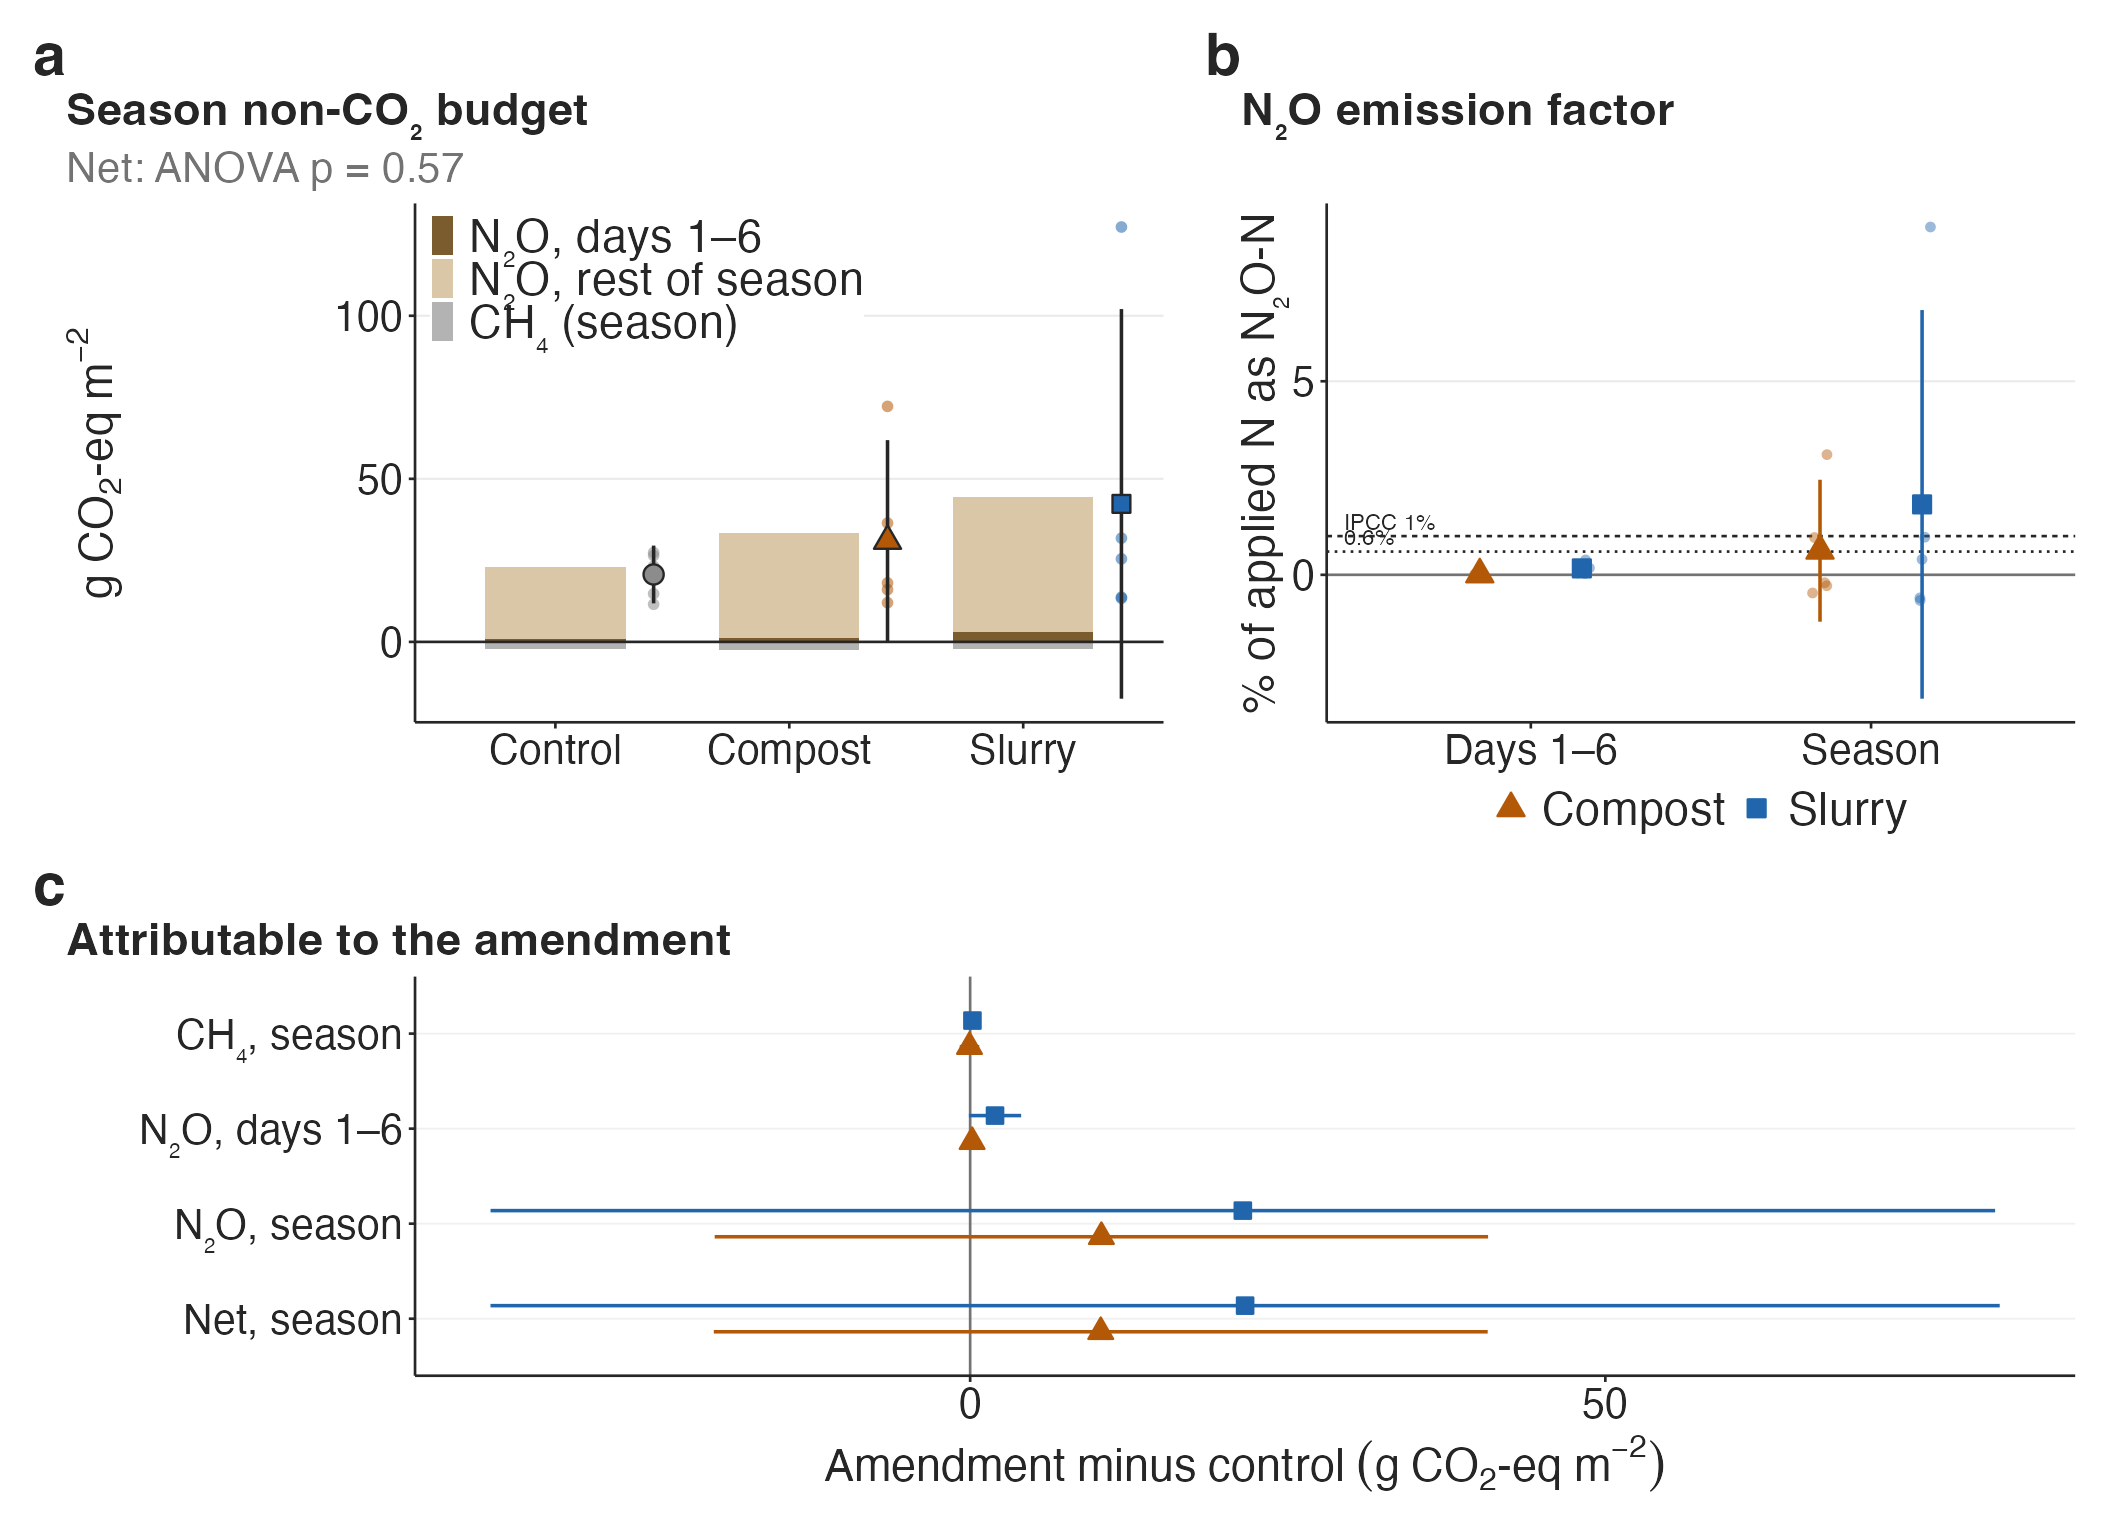
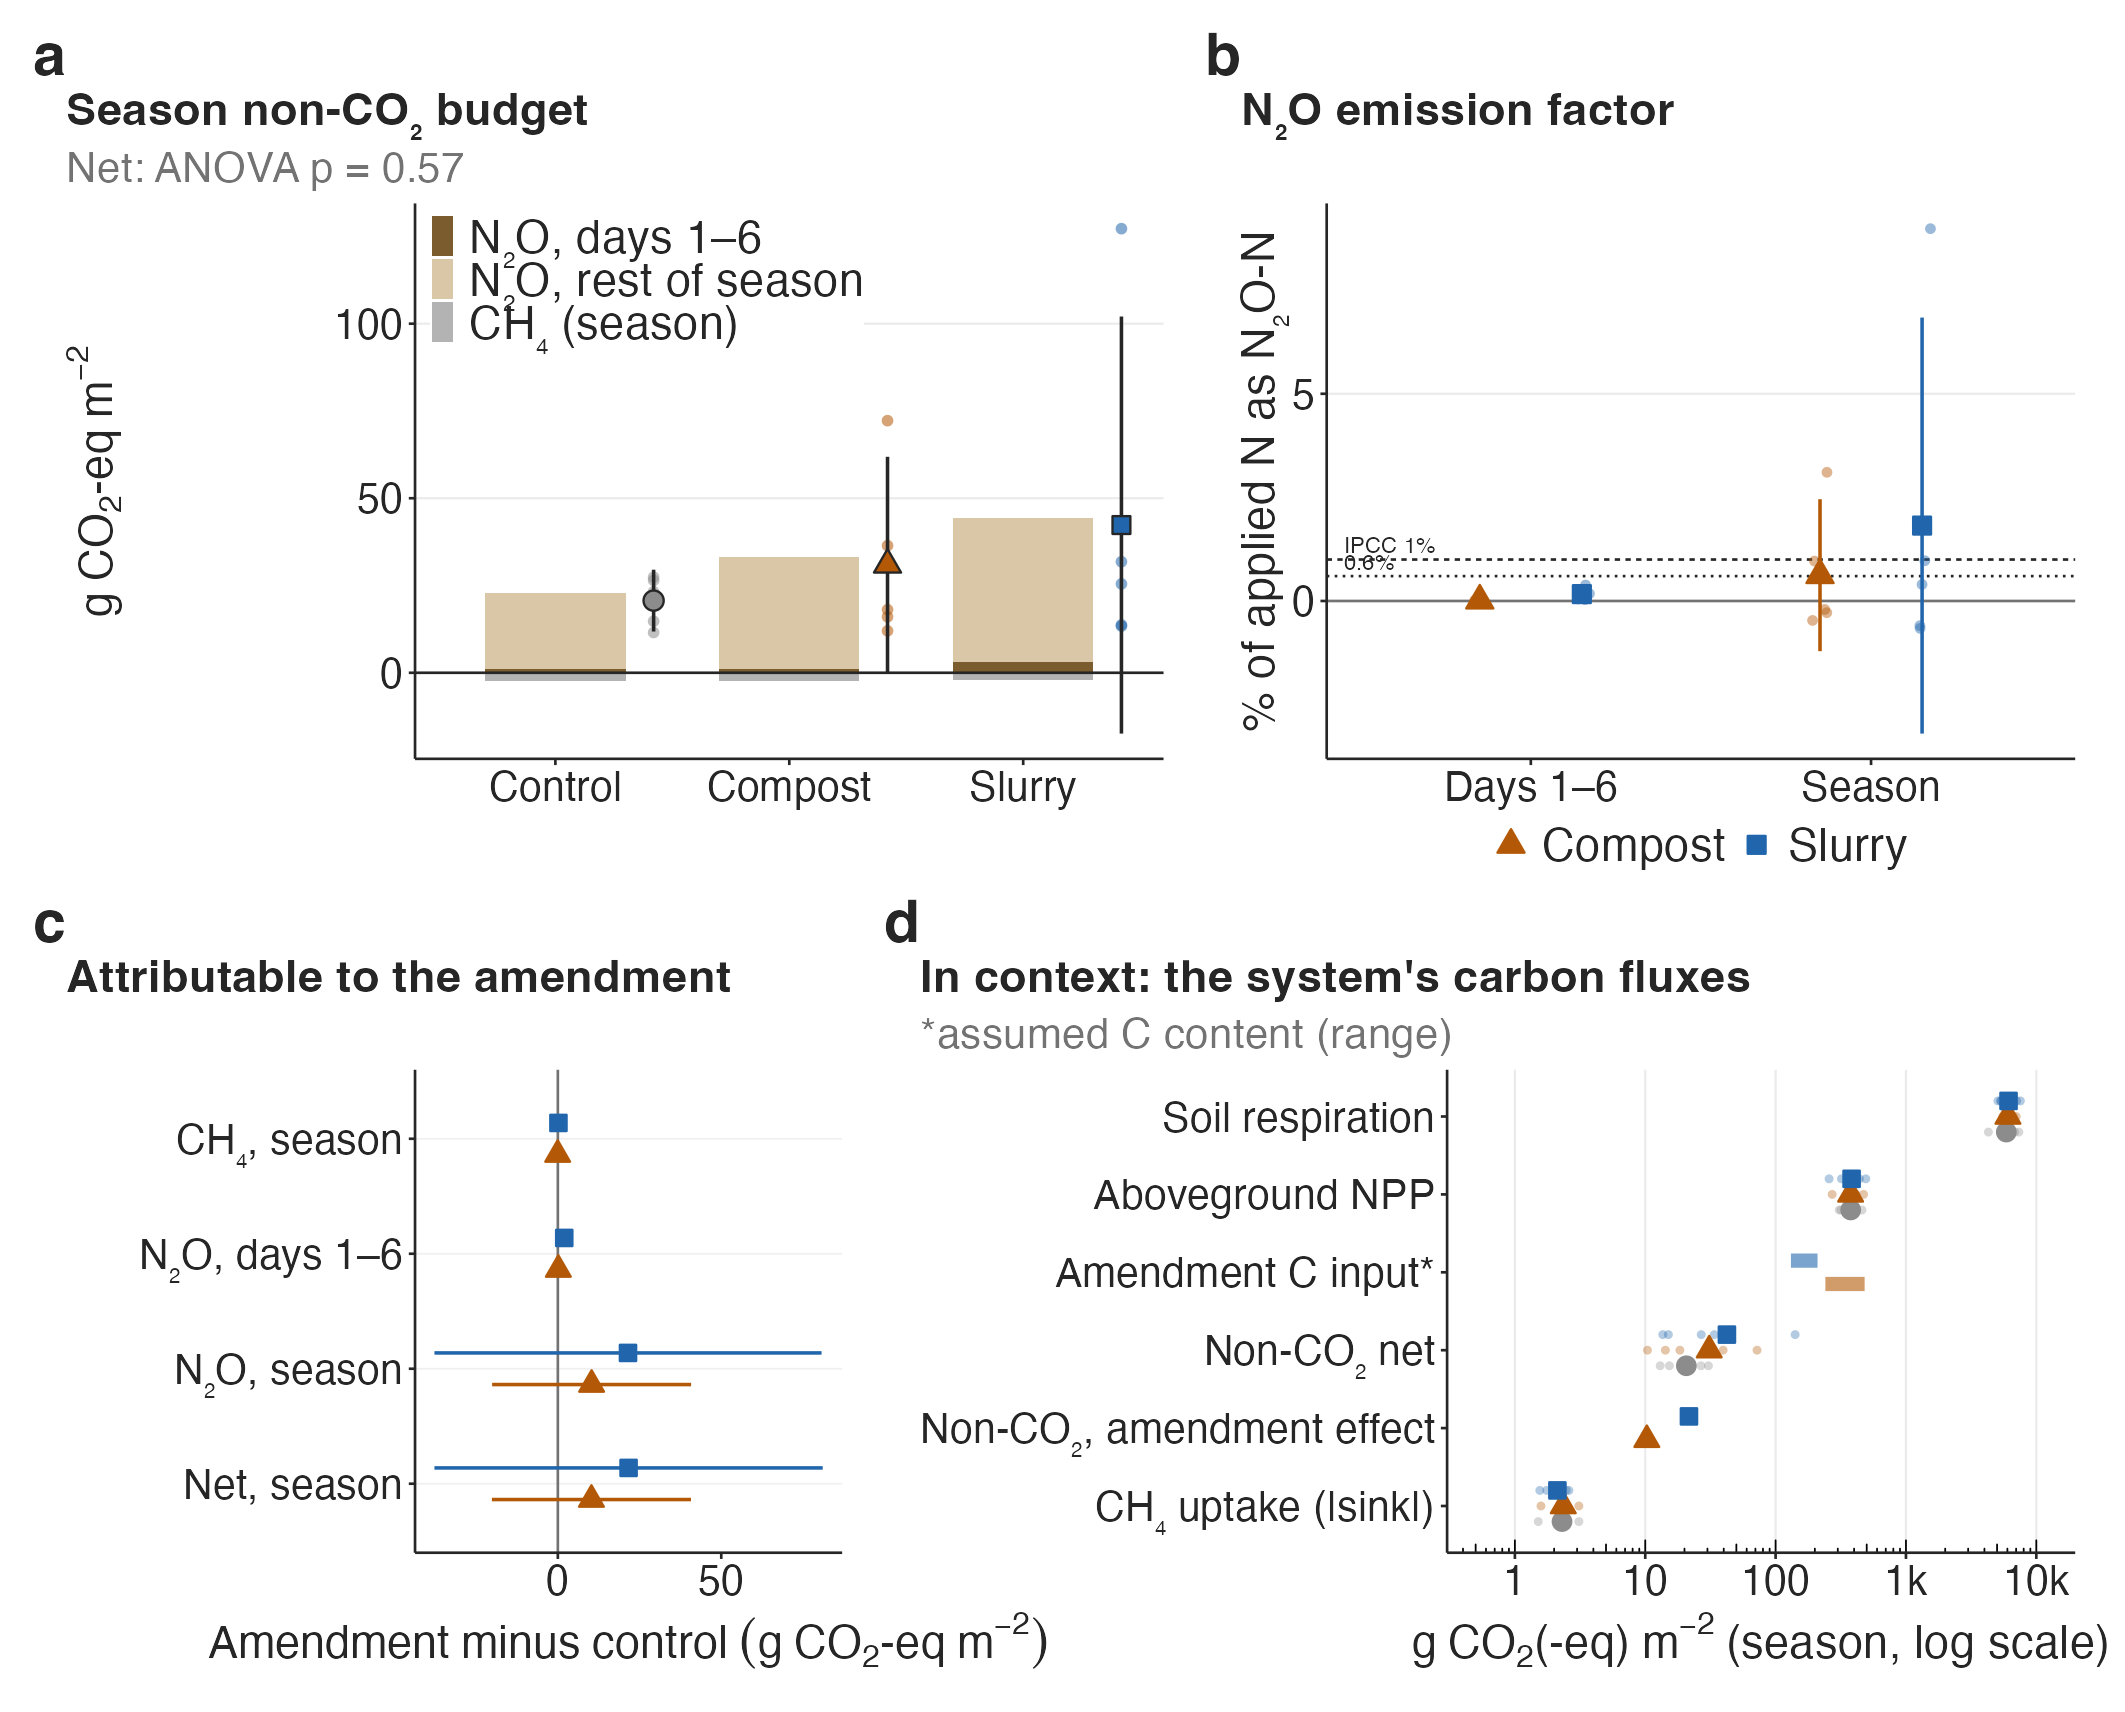
Fig 7: add system-carbon context panel and climate-metric comparison
- Panel d: non-CO2 budget against soil respiration (clipped collars), aboveground NPP
  (uncut subplot since pre-experiment mow) and amendment C input (assumed C range)
- ghg_co2eq_metrics.csv: budgets under GWP100, GWP20, GTP100 and GWP* (sustained practice)

diff --git a/output/figures/captions.md b/output/figures/captions.md
@@ -55,7 +55,14 @@ All values are in CO2-equivalents (GWP100, IPCC AR6: CH4 27.0, N2O 273), from pl
 (b) N2O emission factor: amendment-attributable N2O-N (plot minus control mean) as % of the N applied (slurry 2.75, compost 3.87 g N m−2), for days 1–6 and the season. Reference lines are the IPCC 2019 EF1 aggregate default (1%) and the value for organic N inputs in wet climates (0.6%).
 (c) Components attributable to each amendment: mean difference from control with Welch 95% CI.
 
-Soil CO2 is not included. Chamber CO2 is soil respiration (roots plus microbes), not net ecosystem exchange, so it is not a term in a GHG balance. The amendments' carbon inputs were not measured.
+(d) The non-CO2 budget in the context of the system's carbon fluxes over the same season, all in g CO2(-eq) m−2 on a log scale. These are gross fluxes shown for scale; they are not terms of a single net balance.
+- **Soil respiration:** from the clipped collars, so roots plus microbes. It is integrated from midday closures (10:00–17:00), so it is likely biased high compared with a 24-h total.
+- **Aboveground NPP:** the October harvest of the 0.5 m² subplot left uncut since the pre-experiment mow, assuming C = 45% of dry mass.
+- **Amendment C input:** not measured. The range assumes C = 25–40% of dry matter for slurry and 15–30% for compost.
+- **Result:** the non-CO2 net is 0.35–0.7% of season soil respiration and 6–11% of aboveground NPP. For the amendment effect to be offset, 10–17% of the slurry C, or 2–4% of the compost C, would have to stay in the soil through the season (point estimates).
+- **Metric choice barely matters** (ghg_co2eq_metrics.csv): season net non-CO2 for the slurry plots is 42 g CO2-eq m−2 under GWP100, 38 under GWP20, 38 under GTP100 and 44 under GWP* for a sustained practice. N2O dominates, and its GWP20 equals its GWP100.
+
+Soil CO2 is not included in panels a–c. Chamber CO2 is soil respiration (roots plus microbes), not net ecosystem exchange, so it is not a term in a GHG balance. The amendments' carbon inputs were not measured.
 
 Results:
 - N2O dominates the non-CO2 budget in every treatment: 23 (control), 33 (compost) and 44 (slurry) g CO2-eq m−2. CH4 uptake offsets about 2 g CO2-eq m−2.
